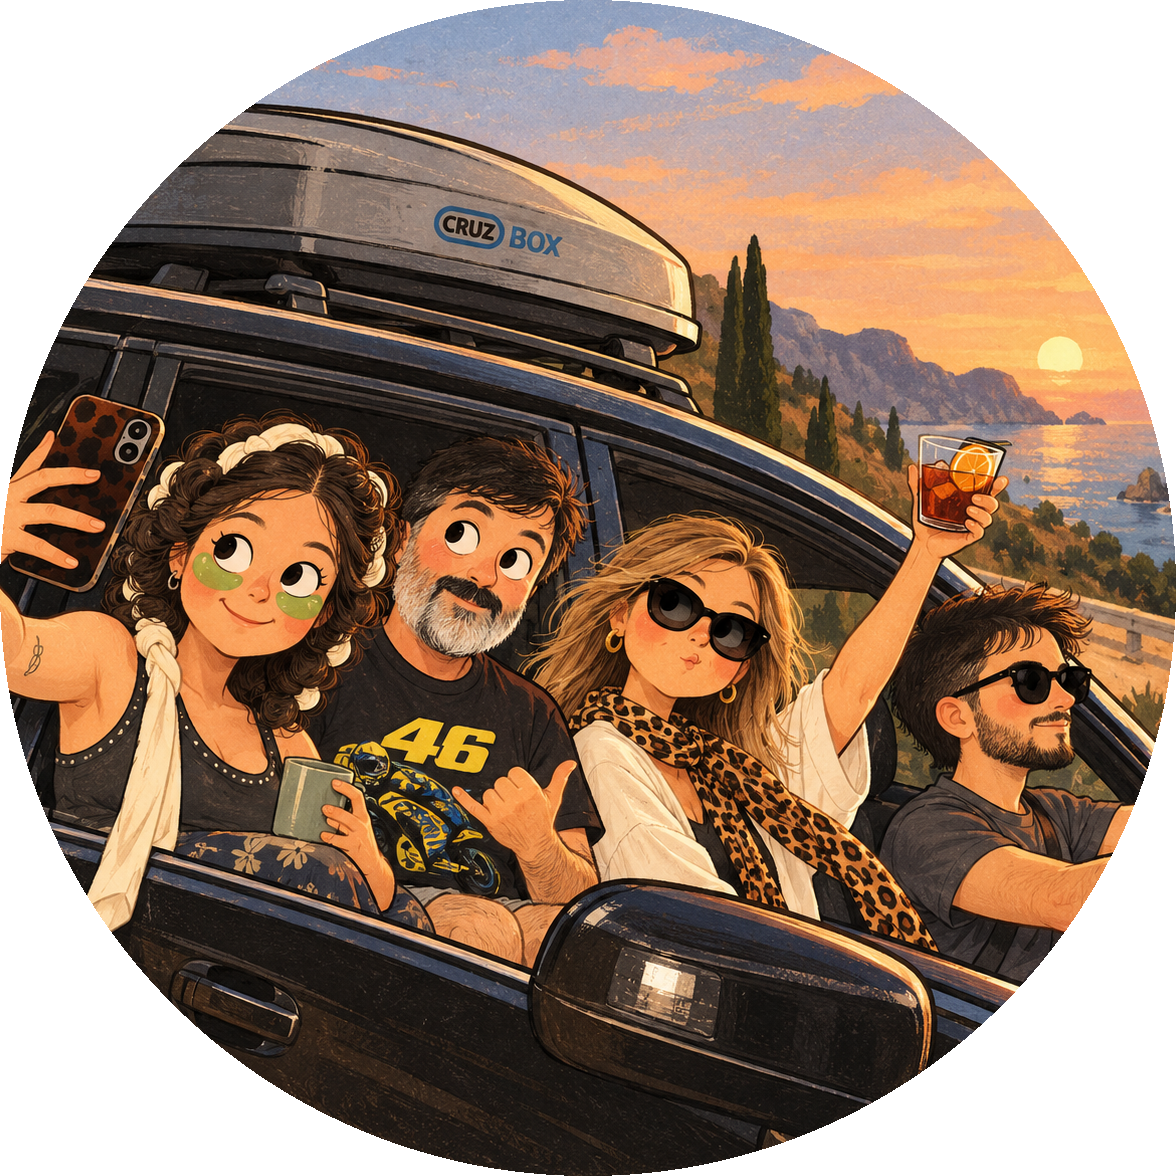
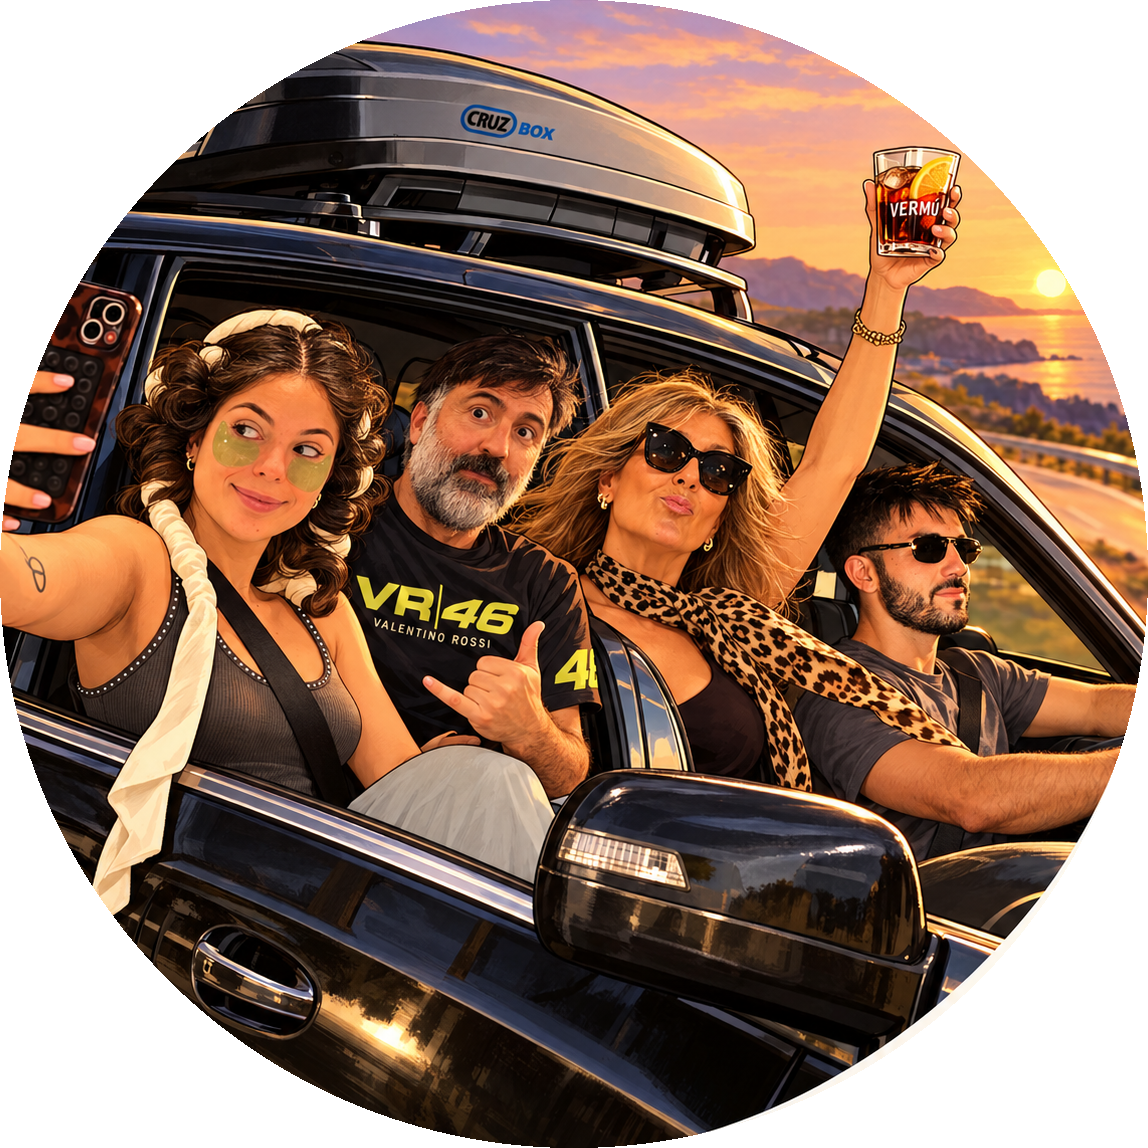
Nueva imagen de la familia, sin línea de ruta prevista
Quita la línea de puntos del plan, usa la nueva ilustración como muñeco e
icono y centra el mapa en la familia en el móvil.

Claude-Session: https://claude.ai/code/session_01MgTNoyWgkCVxyJHZHEsXqN

diff --git a/app.js b/app.js
@@ -61,14 +61,13 @@ map.attributionControl.setPrefix(false).addAttribution("Fronteras: Natural Earth
 const planPts=ROUTE.map(k=>[P[k][1],P[k][2]]);
 map.fitBounds(planPts,{padding:[30,30]});
 const narrow=map.getSize().x<640;
-if(narrow)map.setView([44.4,4.6],Math.max(map.getZoom()+.75,5));
-map.setMaxBounds([[35.5,-11.5],[52,20]]);
+if(narrow)map.setView([44.4,4.6],Math.max(map.getZoom()+.75,5),{animate:false});
+map.setMaxBounds([[35.5,-16],[52,20]]);
 const TRIP=new Set(["France","Monaco","Italy"]);
 fetch("geo.json").then(r=>r.json()).then(g=>{
   L.geoJSON(g,{interactive:false,style:f=>({color:css("--border"),weight:.8,fillColor:TRIP.has(f.properties.n)?css("--land-trip"):css("--land"),fillOpacity:1})}).addTo(map).bringToBack();
 }).catch(()=>{});
 [["Francia",46.4,2.6],["Italia",42.6,12.9],["España",40.6,-4.2]].forEach(([n,a,o])=>L.marker([a,o],{interactive:false,keyboard:false,icon:L.divIcon({className:"",html:`<div class="country">${n}</div>`,iconSize:[0,0]})}).addTo(map));
-L.polyline(planPts,{color:css("--ink-soft"),weight:1.6,dashArray:"2 7",lineCap:"round",interactive:false}).addTo(map);
 const seen=new Set();
 ROUTE.forEach(k=>{if(seen.has(k))return;seen.add(k);
   L.marker([P[k][1],P[k][2]],{interactive:false,keyboard:false,icon:L.divIcon({className:"",html:`<div class="dot future"></div>`,iconSize:[10,10],iconAnchor:[5,5]})}).addTo(map);
@@ -76,7 +75,7 @@ ROUTE.forEach(k=>{if(seen.has(k))return;seen.add(k);
 });
 const trail=L.polyline([],{color:css("--rust"),weight:3.5,lineCap:"round",lineJoin:"round",interactive:false}).addTo(map);
 const stopLayer=L.layerGroup().addTo(map);
-const fam=L.marker([P.cor[1],P.cor[2]],{icon:L.divIcon({className:"",html:`<div class="fam idle" id="fam" title="¡Aquí estamos!"><div class="body"><div class="tail"></div><img src="img/familia.jpg" alt="Nuestra familia"></div><div class="shadow"></div></div>`,iconSize:[72,86],iconAnchor:[36,86]}),zIndexOffset:3000,keyboard:false}).addTo(map);
+const fam=L.marker([P.cor[1],P.cor[2]],{icon:L.divIcon({className:"",html:`<div class="fam idle" id="fam" title="¡Aquí estamos!"><div class="body"><div class="tail"></div><img src="img/familia.jpg?v=3" alt="Nuestra familia"></div><div class="shadow"></div></div>`,iconSize:[72,86],iconAnchor:[36,86]}),zIndexOffset:3000,keyboard:false}).addTo(map);
 fam.on("click",()=>{const l=lastStop();if(l)openStop(l.id)});
 let pickMarker=null;
 
@@ -99,7 +98,8 @@ function animate(force){
   const first=lastAnimKey==="";lastAnimKey=key;
   cancelAnimationFrame(raf);
   const famEl=()=>document.getElementById("fam");
-  if(path.length<2){fam.setLatLng(path[0]);trail.setLatLngs([]);return}
+  const keepInView=pos=>{map.invalidateSize();if(!map.getBounds().pad(-0.08).contains(pos))map.panTo(pos,{animate:true})};
+  if(path.length<2){fam.setLatLng(path[0]);trail.setLatLngs([]);keepInView(path[0]);return}
   const reduce=matchMedia("(prefers-reduced-motion: reduce)").matches;
   // first load or replay: whole journey; a new stop: only the last leg
   const from=(first||force)?0:Math.max(0,path.length-2);
@@ -113,7 +113,7 @@ function animate(force){
     const pos=[a[0]+(b[0]-a[0])*k,a[1]+(b[1]-a[1])*k];
     fam.setLatLng(pos);trail.setLatLngs(path.slice(0,from+i+1).concat([pos]));
     const v=famEl();if(v){v.classList.toggle("moving",f<1);v.classList.toggle("idle",f>=1)}
-    if(f<1)raf=requestAnimationFrame(step);
+    if(f<1)raf=requestAnimationFrame(step);else keepInView(pos);
   };
   raf=requestAnimationFrame(step);
 }
@@ -131,12 +131,12 @@ function renderNow(){
   const el=$("#now");const s=lastStop();
   if(!S.loaded)return;
   if(!s){
-    el.innerHTML=`<div class="pol"><img src="img/familia.jpg" alt=""></div><div style="min-width:0"><div class="mono">Todavía en casa</div><h3>A Coruña</h3><p>Salimos el viernes 10 de octubre. ¡Volved por aquí!</p></div>`;
+    el.innerHTML=`<div class="pol"><img src="img/familia.jpg?v=3" alt=""></div><div style="min-width:0"><div class="mono">Todavía en casa</div><h3>A Coruña</h3><p>Salimos el viernes 10 de octubre. ¡Volved por aquí!</p></div>`;
     return;
   }
   const ph=photosOf(s.id);const last=ph[ph.length-1];const nc=commentsOfStop(s.id).length;
   const when=ago(last?last.creado:s.creado);
-  el.innerHTML=`<div class="pol">${last?thumbTag(last,s.nombre):`<img src="img/familia.jpg" alt="">`}</div>
+  el.innerHTML=`<div class="pol">${last?thumbTag(last,s.nombre):`<img src="img/familia.jpg?v=3" alt="">`}</div>
     <div style="min-width:0"><div class="mono">Última publicación${dayN(s.fecha)>=1&&dayN(s.fecha)<=9?" · Día "+dayN(s.fecha):""}</div>
     <h3>${esc(s.nombre)}</h3><p>${esc([when,ph.length?ph.length+(ph.length>1?" fotos":" foto"):null,nc?nc+(nc>1?" comentarios":" comentario"):null].filter(Boolean).join(" · "))}</p>
     <button class="btnlink" id="nowOpen" type="button">Ver la parada</button><button class="btnlink" id="replay" type="button">Ver el viaje otra vez</button></div>`;

diff --git a/index.html b/index.html
@@ -10,13 +10,13 @@
 <meta property="og:description" content="Nuestro viaje en coche por Francia, Mónaco e Italia, en directo.">
 <meta property="og:image" content="https://pauladorado77.github.io/diario-de-ruta/img/familia.jpg">
 <meta name="theme-color" content="#f3eee4">
-<link rel="icon" href="img/familia.jpg">
-<link rel="apple-touch-icon" href="img/familia.jpg">
+<link rel="icon" type="image/png" href="img/icono.png?v=3">
+<link rel="apple-touch-icon" href="img/familia.jpg?v=3">
 <link rel="preconnect" href="https://fonts.googleapis.com">
 <link rel="preconnect" href="https://fonts.gstatic.com" crossorigin>
 <link rel="stylesheet" href="https://fonts.googleapis.com/css2?family=Instrument+Serif:ital@0;1&family=Mrs+Saint+Delafield&family=Courier+Prime:wght@400;700&family=Jost:wght@400;500&display=swap">
 <link rel="stylesheet" href="vendor/leaflet.css">
-<link rel="stylesheet" href="style.css">
+<link rel="stylesheet" href="style.css?v=3">
 </head>
 <body>
 
@@ -66,6 +66,6 @@
 <script src="vendor/leaflet.js"></script>
 <script src="vendor/supabase.js"></script>
 <script src="config.js"></script>
-<script src="app.js"></script>
+<script src="app.js?v=3"></script>
 </body>
 </html>
